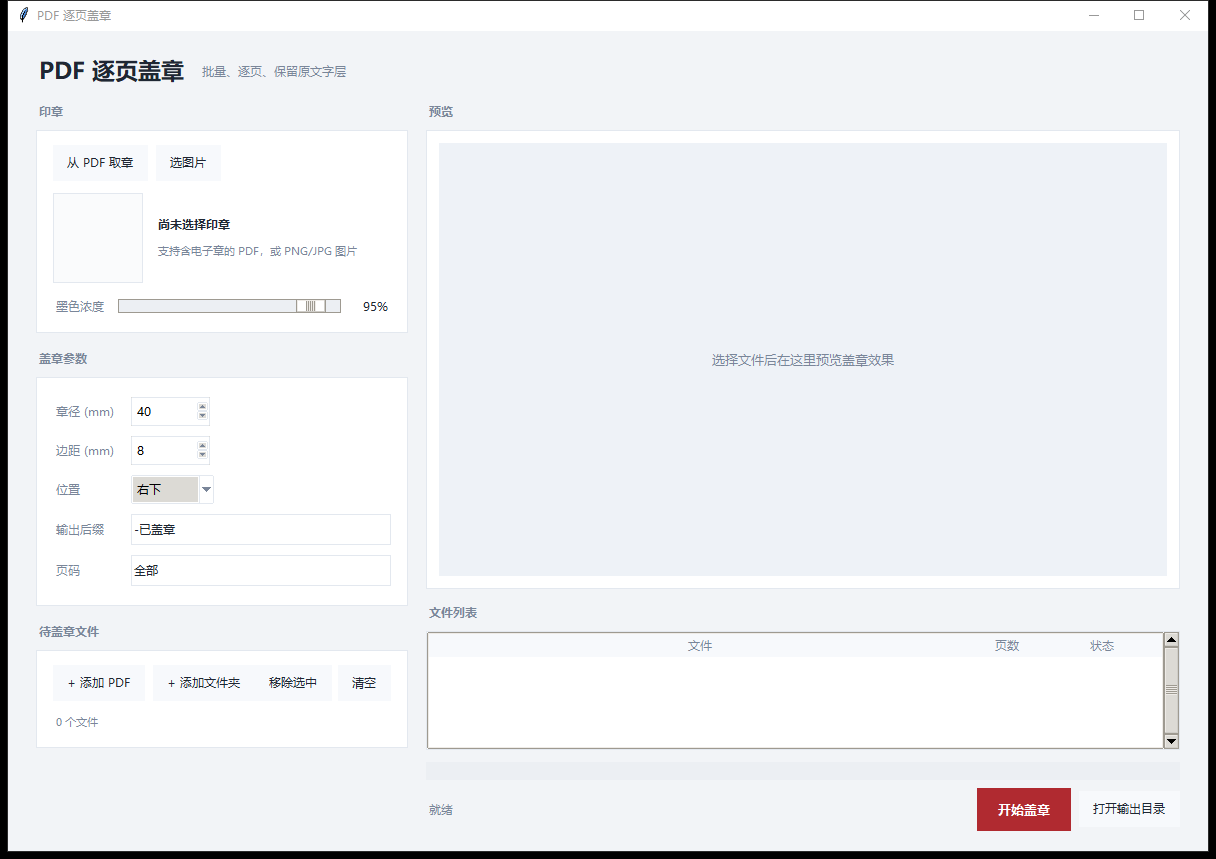
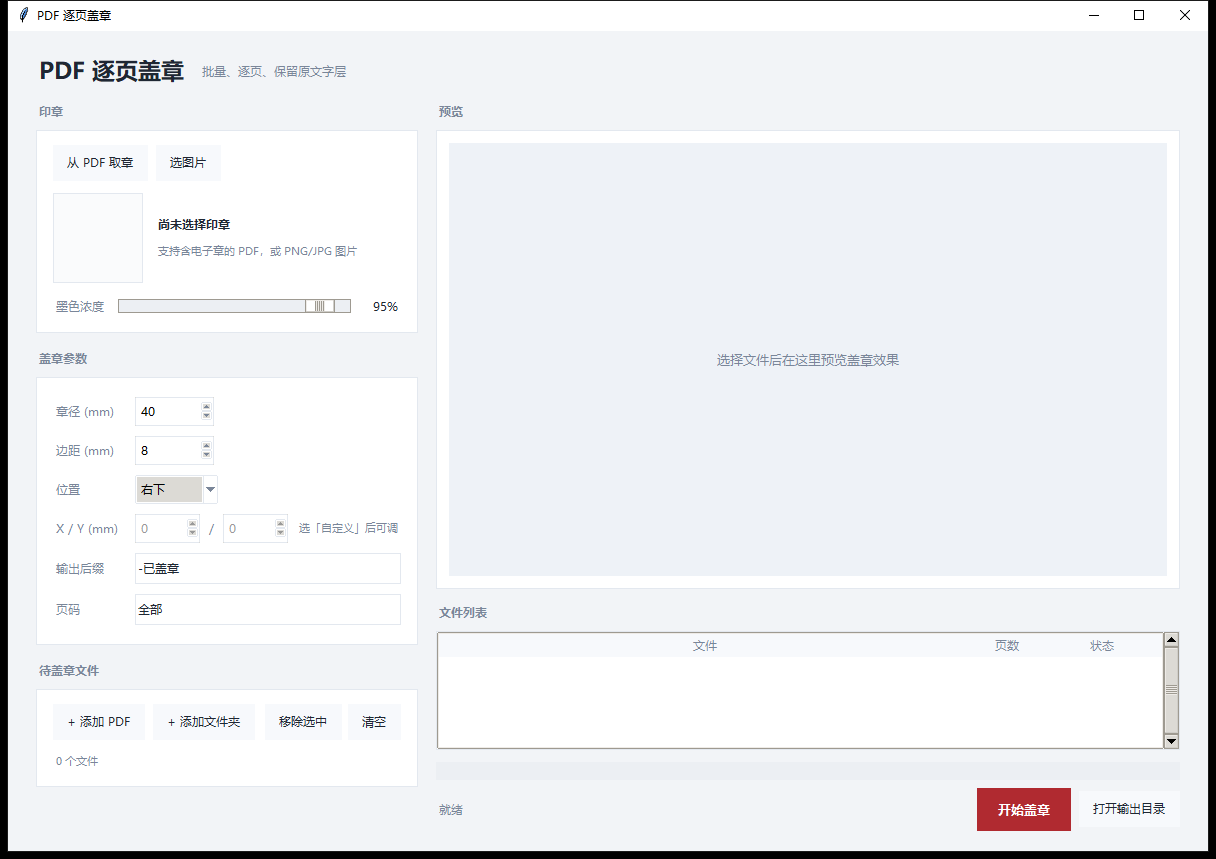
feat: 新增中下位置与自定义 X/Y 坐标定位
位置支持 右下/中下/左下/右上/左上/自定义；自定义按毫米从页面左上角定位，
预览与盖章共用同一套定位逻辑，超出页面会自动夹回页内。

diff --git a/stamp_tool.py b/stamp_tool.py
@@ -39,6 +39,28 @@ def mm2pt(v):
     return v / 25.4 * 72.0
 
 
+POSITIONS = ["右下", "中下", "左下", "右上", "左上", "自定义"]
+
+
+def place_rect(pw, ph, w, h, corner, margin, cx=0.0, cy=0.0):
+    """返回印章左上角坐标，单位与传入的页面尺寸一致。"""
+    if corner == "自定义":
+        x, y = cx, cy
+    elif corner == "右下":
+        x, y = pw - margin - w, ph - margin - h
+    elif corner == "中下":
+        x, y = (pw - w) / 2.0, ph - margin - h
+    elif corner == "左下":
+        x, y = margin, ph - margin - h
+    elif corner == "右上":
+        x, y = pw - margin - w, margin
+    else:
+        x, y = margin, margin
+    x = min(max(0.0, x), max(0.0, pw - w))
+    y = min(max(0.0, y), max(0.0, ph - h))
+    return x, y
+
+
 def red_ratio(im):
     small = im.convert("RGB").resize((140, 140))
     a = np.asarray(small).astype(np.int16)
@@ -288,23 +310,57 @@ class App:
 
         label("位置", 2)
         self.corner_var = tk.StringVar(value="右下")
-        ttk.Combobox(grid, textvariable=self.corner_var, values=["右下", "左下", "右上", "左上"],
+        ttk.Combobox(grid, textvariable=self.corner_var, values=POSITIONS,
                      state="readonly", width=8).grid(row=2, column=1, sticky="w", padx=(14, 0), pady=5)
 
-        label("输出后缀", 3)
+        label("X / Y (mm)", 3)
+        xy = tk.Frame(grid, bg=CARD)
+        xy.grid(row=3, column=1, sticky="w", padx=(14, 0), pady=5)
+        self.cx_var = tk.StringVar(value="0")
+        self.cy_var = tk.StringVar(value="0")
+        self.cx_spin = ttk.Spinbox(xy, from_=0, to=500, increment=1,
+                                   textvariable=self.cx_var, width=6)
+        self.cx_spin.pack(side="left")
+        tk.Label(xy, text="/", bg=CARD, fg=MUTED, font=(FONT, 9)).pack(side="left", padx=6)
+        self.cy_spin = ttk.Spinbox(xy, from_=0, to=500, increment=1,
+                                   textvariable=self.cy_var, width=6)
+        self.cy_spin.pack(side="left")
+        self.xy_hint = tk.Label(xy, text="距页面左上角", bg=CARD, fg=MUTED, font=(FONT, 8))
+        self.xy_hint.pack(side="left", padx=(8, 0))
+
+        label("输出后缀", 4)
         self.suffix_var = tk.StringVar(value="-已盖章")
         tk.Entry(grid, textvariable=self.suffix_var, bg=CARD, fg=TEXT, relief="flat",
                  highlightbackground=BORDER, highlightthickness=1, font=(FONT, 9)).grid(
-            row=3, column=1, sticky="ew", padx=(14, 0), pady=5, ipady=4)
+            row=4, column=1, sticky="ew", padx=(14, 0), pady=5, ipady=4)
 
-        label("页码", 4)
+        label("页码", 5)
         self.pages_var = tk.StringVar(value="全部")
         tk.Entry(grid, textvariable=self.pages_var, bg=CARD, fg=TEXT, relief="flat",
                  highlightbackground=BORDER, highlightthickness=1, font=(FONT, 9)).grid(
-            row=4, column=1, sticky="ew", padx=(14, 0), pady=5, ipady=4)
+            row=5, column=1, sticky="ew", padx=(14, 0), pady=5, ipady=4)
 
-        for var in (self.size_var, self.margin_var, self.corner_var):
+        for var in (self.size_var, self.margin_var, self.corner_var,
+                    self.cx_var, self.cy_var):
             var.trace_add("write", lambda *a: self.refresh_preview())
+        self.corner_var.trace_add("write", lambda *a: self._on_corner())
+        self._on_corner()
+
+    def _on_corner(self):
+        custom = self.corner_var.get() == "自定义"
+        st = "normal" if custom else "disabled"
+        self.cx_spin.configure(state=st)
+        self.cy_spin.configure(state=st)
+        self.xy_hint.configure(text="距页面左上角" if custom else "选「自定义」后可调")
+
+    def _custom_mm(self):
+        try:
+            cx, cy = float(self.cx_var.get()), float(self.cy_var.get())
+        except ValueError:
+            raise ValueError("X / Y 坐标要填数字（毫米）。")
+        if not (0 <= cx <= 2000 and 0 <= cy <= 2000):
+            raise ValueError("X / Y 坐标超出范围（0-2000 mm）。")
+        return cx, cy
 
     def _build_files_card(self, parent):
         body = self.card(parent, "待盖章文件")
@@ -507,14 +563,16 @@ class App:
         try:
             size = mm2pt(float(self.size_var.get()))
             margin = mm2pt(float(self.margin_var.get()))
+            cx_mm, cy_mm = self._custom_mm()
         except ValueError:
             return
         corner = self.corner_var.get()
         w = int(round(size * zoom))
         h = int(round(size * zoom * self.stamp_base.height / self.stamp_base.width))
-        m = int(round(margin * zoom))
-        x = m if corner in ("左下", "左上") else bg_img.width - m - w
-        y = m if corner in ("右上", "左上") else bg_img.height - m - h
+        x, y = place_rect(bg_img.width, bg_img.height, w, h, corner,
+                          int(round(margin * zoom)),
+                          mm2pt(cx_mm) * zoom, mm2pt(cy_mm) * zoom)
+        x, y = int(round(x)), int(round(y))
 
         ink = self.stamp_base.copy()
         alpha = ink.getchannel("A").point(lambda v: int(v * self.opacity.get()))
@@ -541,8 +599,9 @@ class App:
             margin = float(self.margin_var.get())
             if not (10 <= size <= 100) or not (0 <= margin <= 60):
                 raise ValueError
-        except ValueError:
-            messagebox.showwarning(APP_NAME, "章径或边距数值不对。")
+            cx_mm, cy_mm = self._custom_mm()
+        except ValueError as e:
+            messagebox.showwarning(APP_NAME, str(e) if str(e) else "章径或边距数值不对。")
             return False
         if not self.suffix_var.get().strip():
             messagebox.showwarning(APP_NAME, "输出后缀不能为空，否则会覆盖原文件。")
@@ -579,6 +638,8 @@ class App:
         params = dict(size=mm2pt(float(self.size_var.get())),
                       margin=mm2pt(float(self.margin_var.get())),
                       corner=self.corner_var.get(),
+                      cx=mm2pt(float(self.cx_var.get())),
+                      cy=mm2pt(float(self.cy_var.get())),
                       suffix=self.suffix_var.get().strip(),
                       data=data)
 
@@ -603,15 +664,9 @@ class App:
                     r = page.rect
                     w = size
                     h = size * self.stamp_base.height / self.stamp_base.width
-                    if corner == "右下":
-                        x1, y1 = r.x1 - margin, r.y1 - margin
-                    elif corner == "左下":
-                        x1, y1 = r.x0 + margin + w, r.y1 - margin
-                    elif corner == "右上":
-                        x1, y1 = r.x1 - margin, r.y0 + margin + h
-                    else:
-                        x1, y1 = r.x0 + margin + w, r.y0 + margin + h
-                    rect = fitz.Rect(x1 - w, y1 - h, x1, y1)
+                    x, y = place_rect(r.width, r.height, w, h, corner, margin,
+                                      params["cx"], params["cy"])
+                    rect = fitz.Rect(x, y, x + w, y + h)
                     page.insert_image(rect, stream=params["data"], overlay=True)
                     self.queue.put(("tick", 1))
                 tmp = out + ".part"
@@ -675,6 +730,8 @@ class App:
             self.size_var.set(str(s.get("size", 40)))
             self.margin_var.set(str(s.get("margin", 8)))
             self.corner_var.set(s.get("corner", "右下"))
+            self.cx_var.set(str(s.get("cx", 0)))
+            self.cy_var.set(str(s.get("cy", 0)))
             self.suffix_var.set(s.get("suffix", "-已盖章"))
             self.opacity.set(float(s.get("opacity", 0.95)))
             self.opacity_lbl.configure(text="%d%%" % round(self.opacity.get() * 100))
@@ -686,7 +743,8 @@ class App:
             os.makedirs(SETTINGS_DIR, exist_ok=True)
             with open(SETTINGS_FILE, "w", encoding="utf-8") as f:
                 json.dump(dict(size=self.size_var.get(), margin=self.margin_var.get(),
-                               corner=self.corner_var.get(), suffix=self.suffix_var.get(),
+                               corner=self.corner_var.get(), cx=self.cx_var.get(),
+                               cy=self.cy_var.get(), suffix=self.suffix_var.get(),
                                opacity=round(self.opacity.get(), 2)), f, ensure_ascii=False, indent=2)
         except Exception:
             pass

diff --git a/README.md b/README.md
@@ -12,7 +12,7 @@
 - **从 PDF 取章**：自动扫描页面中的红色印章，按颜色占比和形状打分选出最完整的一枚，裁掉周围白底。
 - **也支持图片**：直接选 PNG / JPG。
 - **批量处理**：可一次加多个 PDF 或整个文件夹。
-- **参数可调**：章径（mm）、边距（mm）、四个角、输出后缀、页码范围、墨色浓度。
+- **参数可调**：章径（mm）、边距（mm）、位置（四角 + 中下 + 自定义坐标）、输出后缀、页码范围、墨色浓度。
 - **保留原文件**：结果另存为 `原名-已盖章.pdf`，原文件不动。
 - **保留文字层**：印章以图片层叠加，不栅格化原页面。
 
@@ -43,7 +43,8 @@ build.bat
 | --- | --- | --- |
 | 章径 | 40 mm | 印章宽度，高度按原图比例自动算 |
 | 边距 | 8 mm | 距纸张边缘的距离 |
-| 位置 | 右下 | 四角可选，按页面的可打印区域定位 |
+| 位置 | 右下 | 右下 / 中下 / 左下 / 右上 / 左上 / 自定义 |
+| X / Y | 0 / 0 | 仅「自定义」时生效，单位 mm，从页面左上角量起；超出页面会自动夹回页内 |
 | 输出后缀 | `-已盖章` | 输出文件名后缀 |
 | 页码 | 全部 | 支持 `1-3,5`、`1,4,7-9` 这类写法 |
 | 墨色浓度 | 95% | 越低越像盖淡了，一般不透明度全开反而假 |
